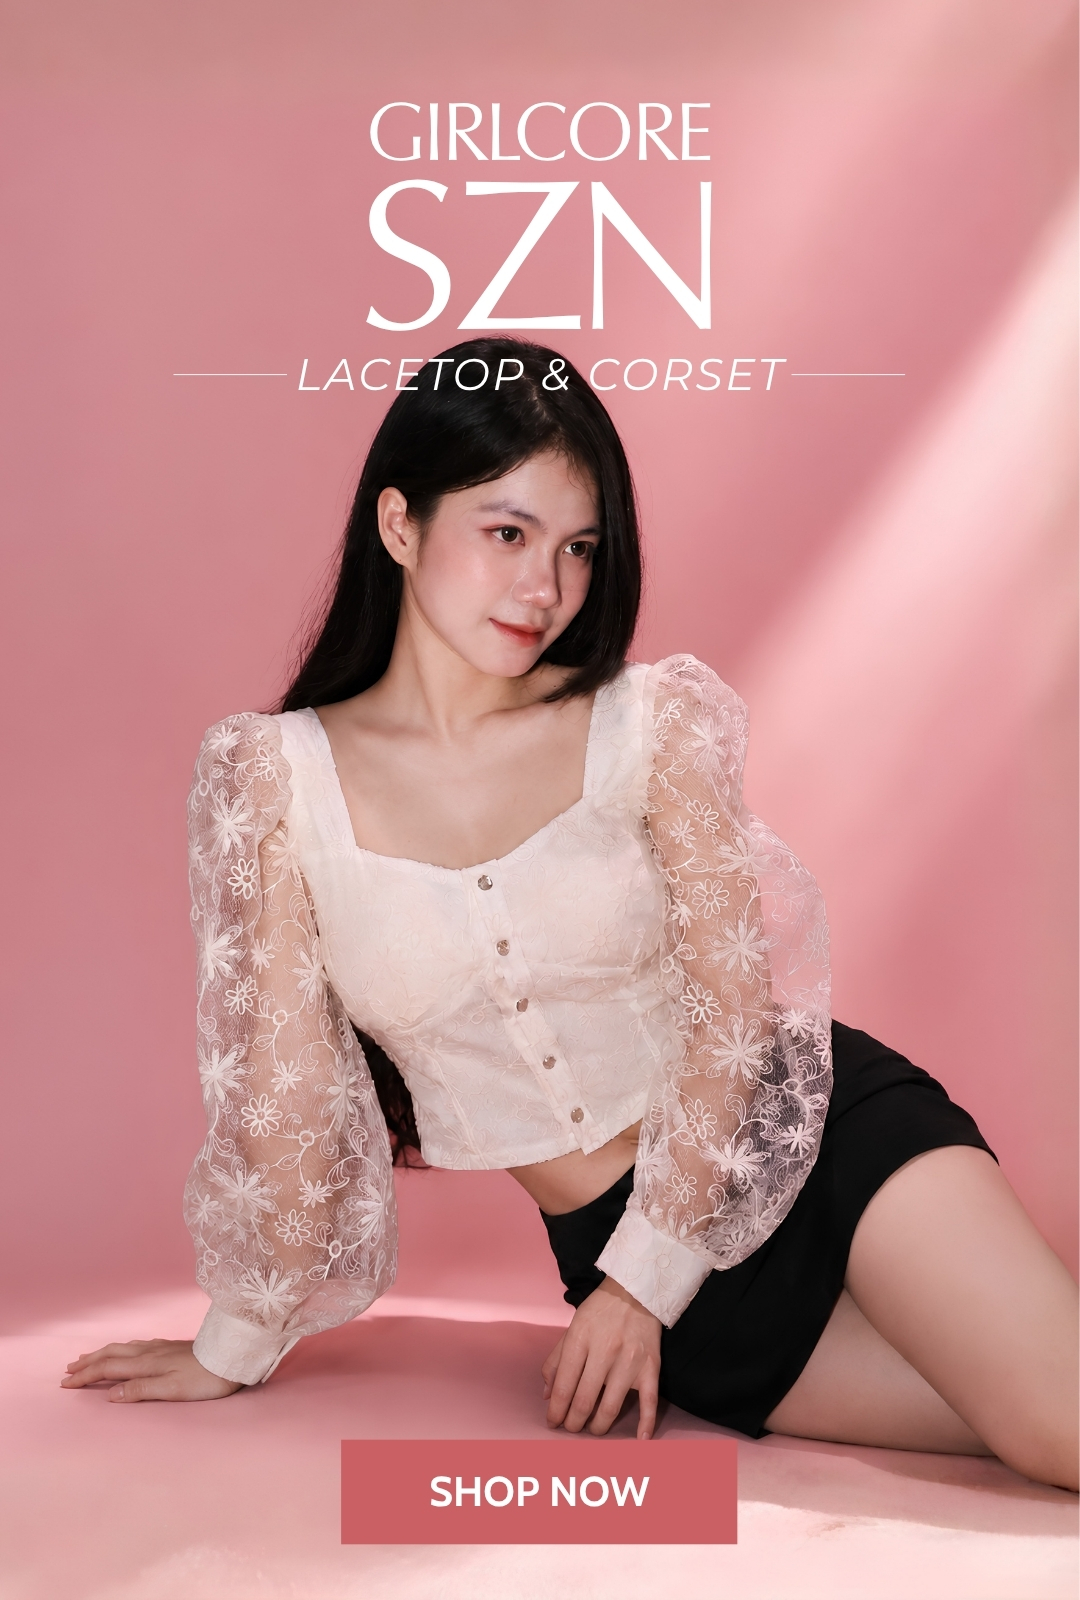
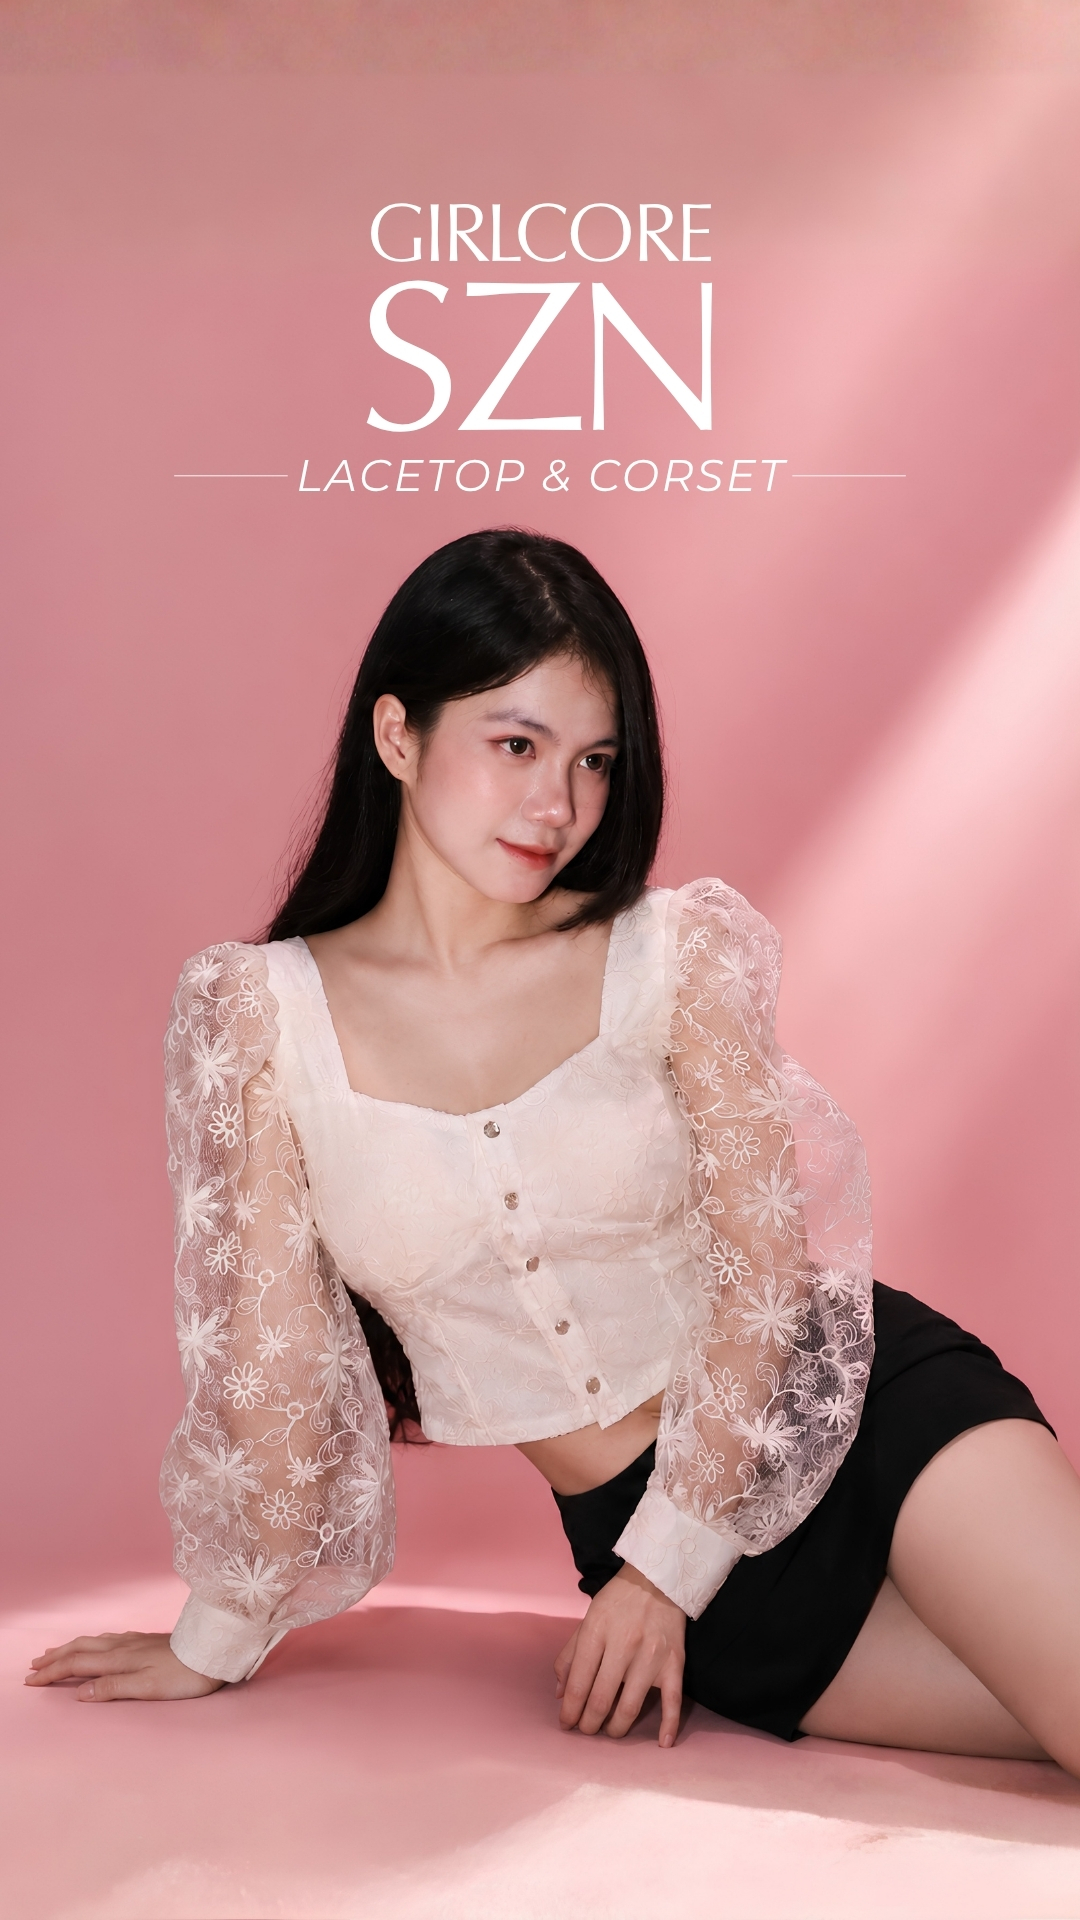
06.16.26

diff --git a/assets/css/responsive.css b/assets/css/responsive.css
@@ -68,7 +68,8 @@
   }
 
   .best-seller-content h3 {
-    font-size: 56px;
+    font-size: 38px;
+    letter-spacing: 0;
   }
 
   .product-image img {
@@ -333,8 +334,10 @@
   }
 
   .section-heading h2 {
-    font-size: 34px;
+    font-size: 26px;
     line-height: 1.15;
+    letter-spacing: 0.3px;
+    white-space: nowrap;
   }
 
   .section-heading p {
@@ -361,8 +364,10 @@
 
   .category-carousel-section .section-heading h2 {
     margin-bottom: 0;
-    font-size: 34px;
+    font-size: 26px;
     line-height: 1.1;
+    letter-spacing: 0.3px;
+    white-space: nowrap;
   }
 
   .category-carousel {
@@ -429,7 +434,7 @@
 
   .category-carousel-content h3 {
     font-size: 42px;
-    letter-spacing: 3px;
+    letter-spacing: 0;
     margin-bottom: 14px;
   }
 
@@ -871,8 +876,9 @@
   }
 
   .fabric-heading h2 {
-    font-size: 28px;
-    letter-spacing: 1.5px;
+    font-size: 26px;
+    letter-spacing: 0.3px;
+    white-space: nowrap;
   }
 
   .fabric-heading-line {
@@ -1511,8 +1517,10 @@
 
   .best-seller-section .section-heading h2 {
     margin-bottom: 0;
-    font-size: 34px;
+    font-size: 26px;
     line-height: 1.1;
+    letter-spacing: 0.3px;
+    white-space: nowrap;
   }
 }
 
@@ -1638,5 +1646,62 @@
   .home-video-banner + .home-horizontal-banner {
     margin-top: 0 !important;
     padding-top: 0 !important;
+  }
+}
+/* =========================
+   Mobile section title spacing
+   Đồng bộ khoảng cách tiêu đề:
+   BEST SELLER / DANH MỤC SẢN PHẨM / ĐA DẠNG CHẤT LIỆU
+   ========================= */
+
+@media screen and (max-width: 768px) {
+  .best-seller-section,
+  .category-carousel-section,
+  .fabric-section {
+    padding-top: 20px !important;
+  }
+
+  .best-seller-section .section-heading,
+  .category-carousel-section .section-heading,
+  .fabric-section .section-heading,
+  .fabric-heading {
+    margin: 0 auto 10px !important;
+    padding: 0 16px !important;
+  }
+
+  .best-seller-section .section-heading h2,
+  .category-carousel-section .section-heading h2,
+  .fabric-heading h2 {
+    margin: 0 !important;
+    font-size: 26px !important;
+    line-height: 1.15 !important;
+    letter-spacing: 0.3px !important;
+    white-space: nowrap !important;
+  }
+
+  .fabric-grid {
+    margin-top: 0 !important;
+  }
+}
+
+@media screen and (max-width: 480px) {
+  .best-seller-section,
+  .category-carousel-section,
+  .fabric-section {
+    padding-top: 18px !important;
+  }
+
+  .best-seller-section .section-heading,
+  .category-carousel-section .section-heading,
+  .fabric-section .section-heading,
+  .fabric-heading {
+    margin-bottom: 8px !important;
+  }
+
+  .best-seller-section .section-heading h2,
+  .category-carousel-section .section-heading h2,
+  .fabric-heading h2 {
+    font-size: 24px !important;
+    letter-spacing: 0.2px !important;
   }
 }

diff --git a/assets/css/components.css b/assets/css/components.css
@@ -142,13 +142,13 @@
 }
 
 .fabric-heading h2 {
-  font-family: "Cormorant Garamond", serif;
-  font-size: 42px;
-  font-weight: 700;
-  letter-spacing: 1px;
+  font-size: 40px;
+  font-weight: 800;
+  letter-spacing: 0.5px;
   text-transform: uppercase;
   color: #4a2c2a;
   margin-bottom: 14px;
+  white-space: nowrap;
 }
 
 .fabric-heading-line {
@@ -903,10 +903,9 @@
 }
 
 .best-seller-content h3 {
-  font-family: "Cormorant Garamond", serif;
   font-size: 72px;
-  font-weight: 700;
-  letter-spacing: 5px;
+  font-weight: 800;
+  letter-spacing: 0;
   margin-bottom: 12px;
   color: var(--color-white);
 }
@@ -1047,10 +1046,9 @@
 }
 
 .category-carousel-content h3 {
-  font-family: "Cormorant Garamond", serif;
   font-size: 58px;
-  font-weight: 700;
-  letter-spacing: 4px;
+  font-weight: 800;
+  letter-spacing: 0;
   color: var(--color-white);
   margin-bottom: 18px;
 }

diff --git a/assets/css/base.css b/assets/css/base.css
@@ -83,12 +83,13 @@ textarea {
 }
 
 .section-heading h2 {
-  font-family: "Cormorant Garamond", serif;
-  font-size: 42px;
-  font-weight: 700;
+  font-size: 40px;
+  font-weight: 800;
   color: var(--color-primary);
-  letter-spacing: 1.5px;
+  letter-spacing: 0.5px;
   margin-bottom: 8px;
+  text-transform: uppercase;
+  white-space: nowrap;
 }
 
 .section-heading p {
